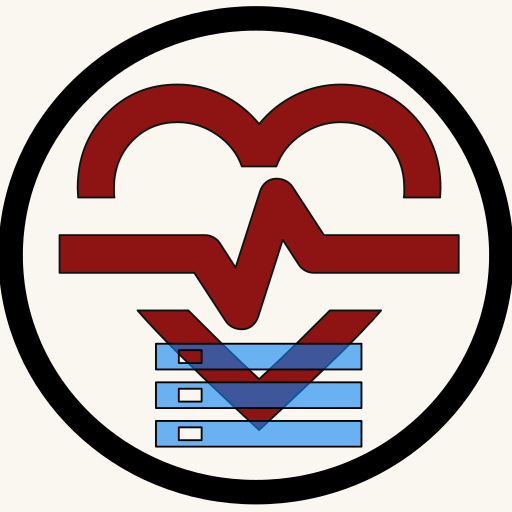
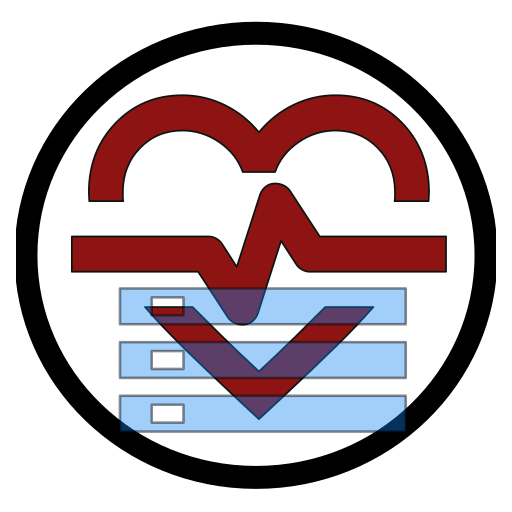
feat: actualizar logotipos claros y oscuros

diff --git a/src/components/AppLogo.tsx b/src/components/AppLogo.tsx
@@ -1,18 +1,24 @@
 import React from 'react';
-import logoSvgRaw from '../assets/app-logo.svg?raw';
+import logoLightSvgRaw from '../assets/app-logo.svg?raw';
+import logoDarkSvgRaw from '../assets/app-logo-dark.svg?raw';
 
 interface AppLogoProps {
   className?: string;
   style?: React.CSSProperties;
 }
 
-const logoMarkup = logoSvgRaw
-  .replace(/<\?xml[^>]*\?>/i, '')
-  .replace(/<!DOCTYPE[^>]*>/i, '')
-  .replace(/stroke:#0a1510/gi, 'stroke:currentColor')
-  .replace(/stroke:#000(?:000)?/gi, 'stroke:currentColor')
-  .replace('<svg ', '<svg aria-hidden="true" focusable="false" ')
-  .trim();
+function prepareLogoMarkup(svg: string, variantClass: string): string {
+  return svg
+    .replace(/<\?xml[^>]*\?>/i, '')
+    .replace(/<!DOCTYPE[^>]*>/i, '')
+    .replace('<svg ', `<svg class="app-logo-variant ${variantClass}" aria-hidden="true" focusable="false" `)
+    .trim();
+}
+
+const logoMarkup = [
+  prepareLogoMarkup(logoLightSvgRaw, 'app-logo-light'),
+  prepareLogoMarkup(logoDarkSvgRaw, 'app-logo-dark'),
+].join('');
 
 export const AppLogo: React.FC<AppLogoProps> = ({
   className = 'w-full h-full',

diff --git a/src/index.css b/src/index.css
@@ -297,6 +297,18 @@ body {
   display: block;
 }
 
+.app-logo-variant.app-logo-dark {
+  display: none;
+}
+
+[data-theme='dark'] .app-logo-variant.app-logo-light {
+  display: none;
+}
+
+[data-theme='dark'] .app-logo-variant.app-logo-dark {
+  display: block;
+}
+
 .pulse-icon {
   animation: pulseBeat 2.5s infinite ease-in-out;
 }

diff --git a/public/sw.js b/public/sw.js
@@ -1,4 +1,4 @@
-const CACHE_NAME = 'control-tension-v1.6.0-beta.1-cache-2';
+const CACHE_NAME = 'control-tension-v1.6.0-beta.1-logo-2';
 const APP_SHELL = [
   './',
   './index.html',
